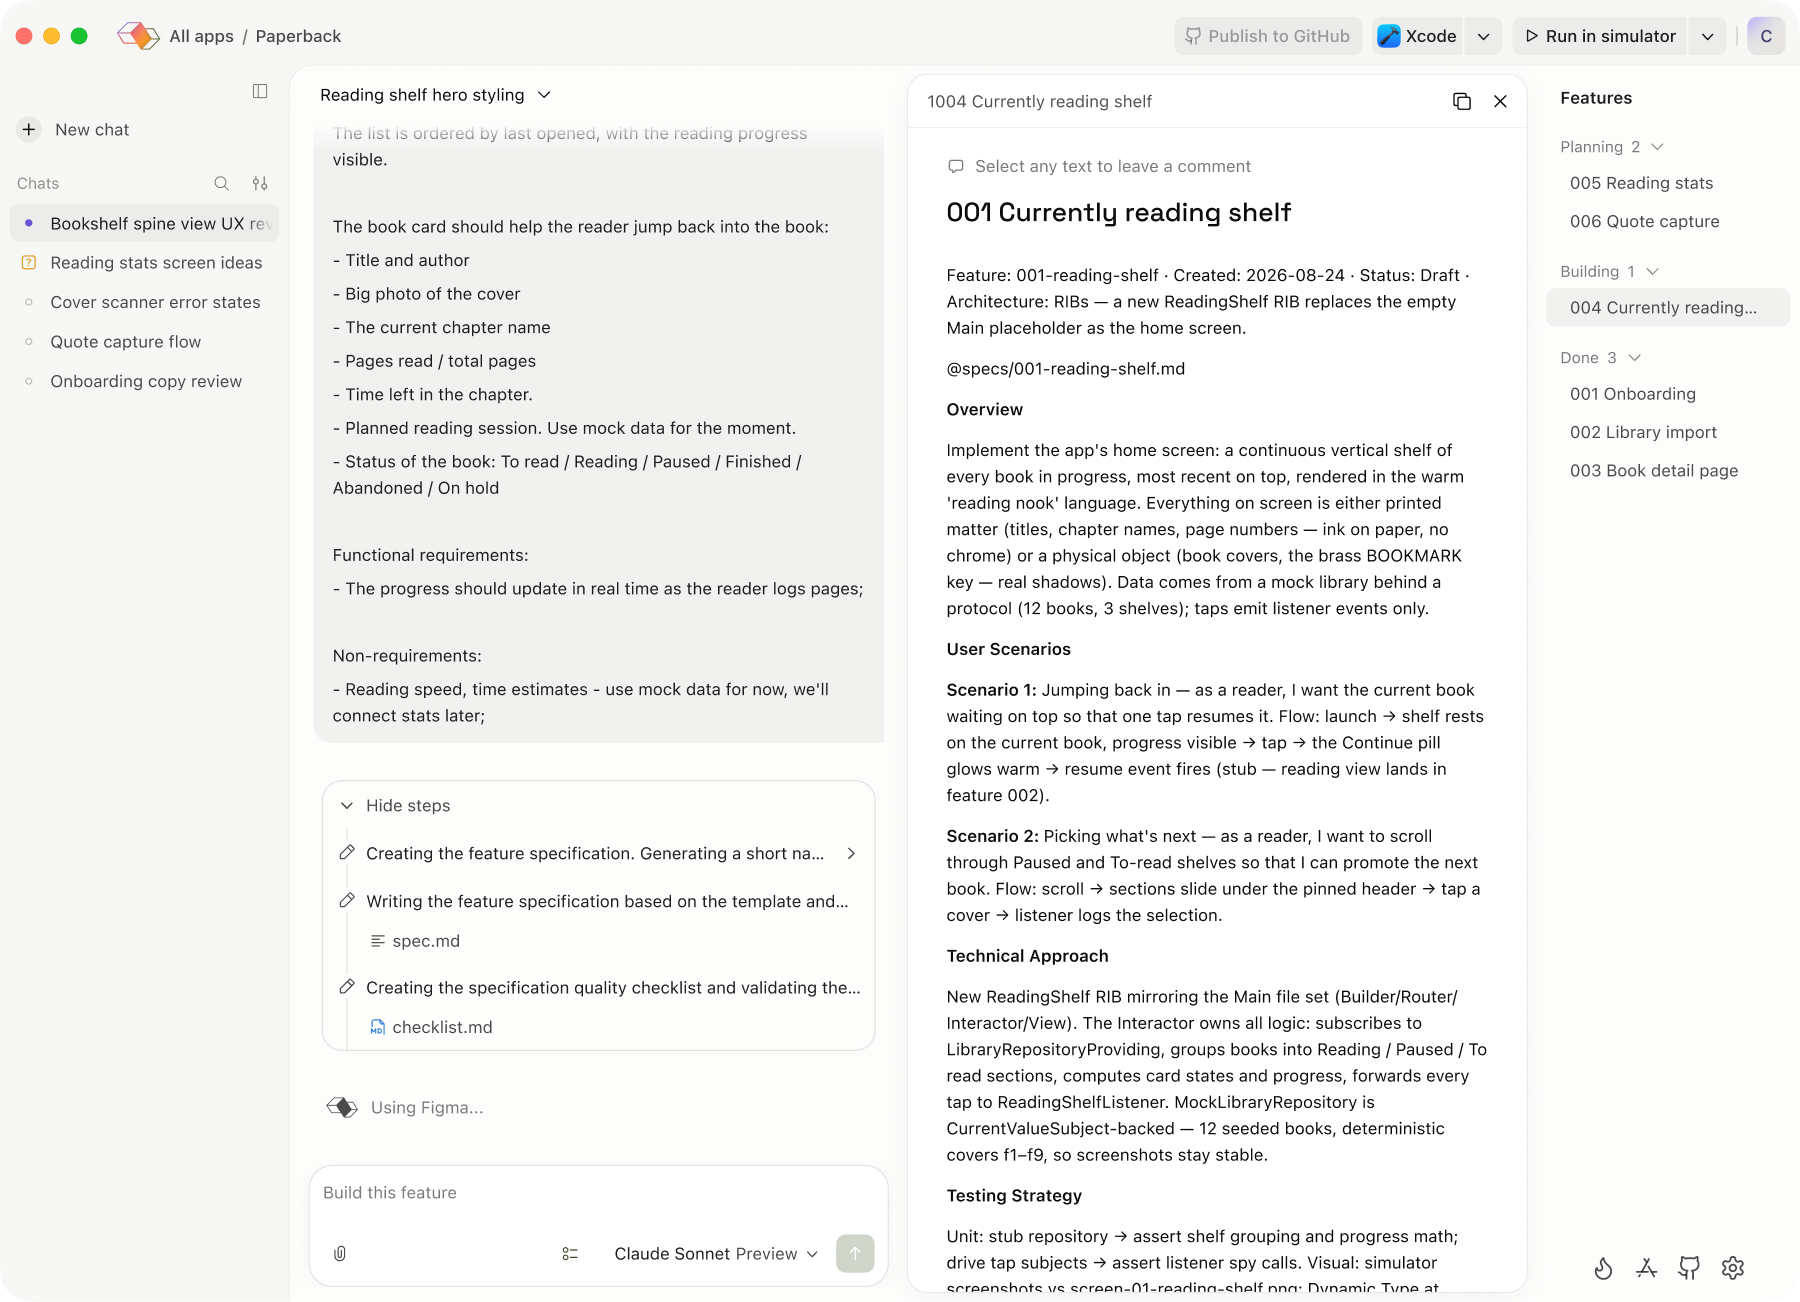
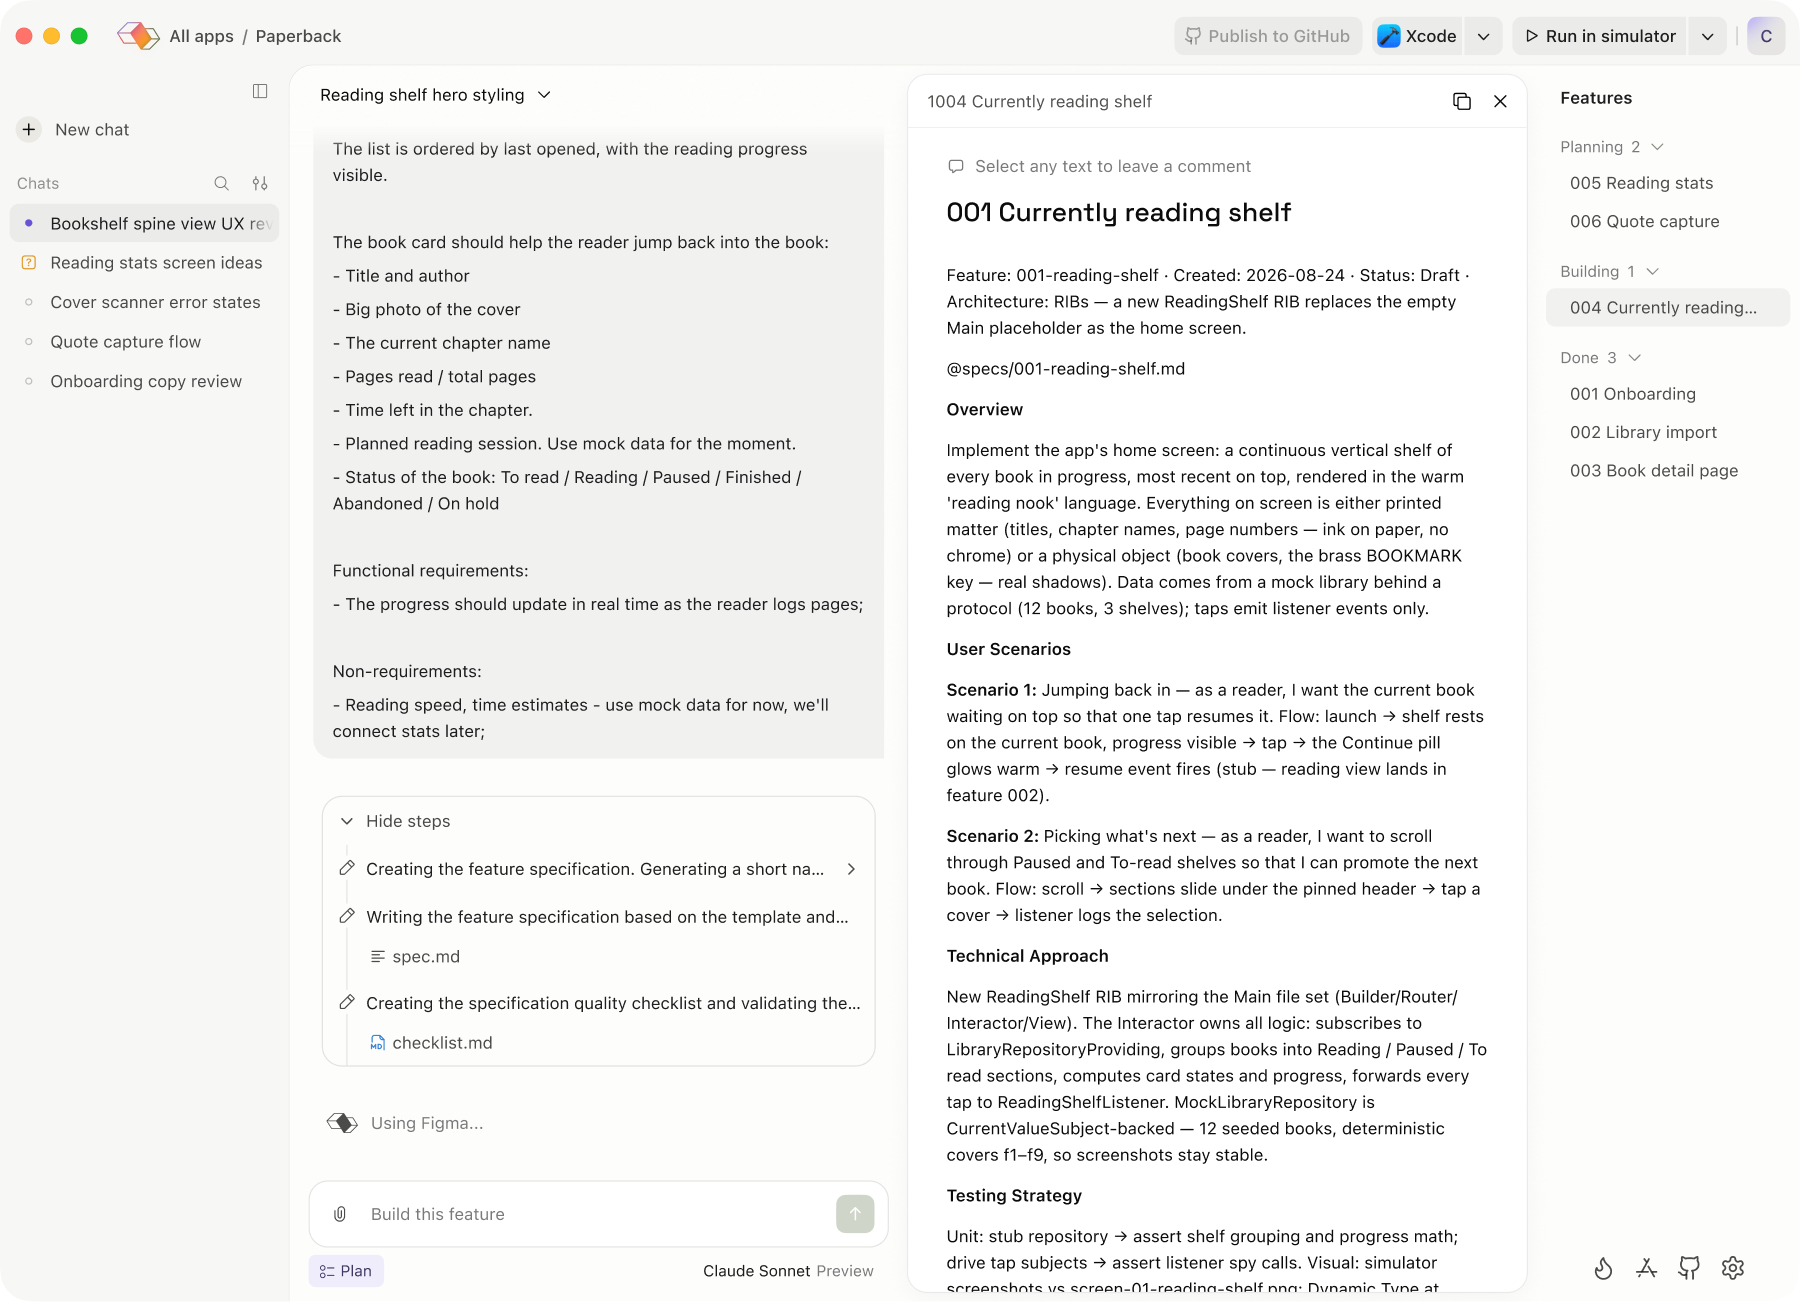
Update Where it landed and status images; cache-bust case study visuals

diff --git a/feature-driven-flow.html b/feature-driven-flow.html
@@ -519,7 +519,7 @@
         <div class="dg-lbl t t3"><p><span class="n">2</span><strong>The active conversation</strong>, directly beside its list.</p></div>
         <div class="dg-lbl t t2"><p><span class="n">5</span><strong>The features rail</strong> — the global project context.</p></div>
         <div class="shot">
-          <img src="assets/feature-driven-flow-03-293ad8b7.png?v=20261029" alt="The workspace: the chat list on the far left, the active conversation beside it, an open feature spec in the middle, and the features rail on the far right" />
+          <img src="assets/feature-driven-flow-03-293ad8b7.png?v=20261030" alt="The workspace: the chat list on the far left, the active conversation beside it, an open feature spec in the middle, and the features rail on the far right" />
           <span class="dg-lead l1"></span><span class="dg-lead l2"></span><span class="dg-lead l3"></span><span class="dg-lead l4"></span><span class="dg-lead l5"></span><span class="dg-lead l6"></span>
           <span class="dg-pin p1">1</span><span class="dg-pin p2">5</span><span class="dg-pin p3">3</span><span class="dg-pin p4">4</span><span class="dg-pin p5">6</span><span class="dg-pin p6">2</span>
         </div>
@@ -580,7 +580,7 @@
         </li>
         <li>
           <p><strong>Statuses carry the rest</strong> — each feature shows where it stands; each chat shows what the agent is doing: working, waiting for you, or finished.</p>
-          <div class="dec-img dec-alt"><img src="assets/feature-driven-flow-07-11784bb7.png" alt="The features rail: features grouped under Planning, Building and Done."><img src="assets/feature-driven-flow-08-6e4c395e.png?v=20261029" alt="The chat list: one chat waiting for you, one with the agent working, one finished."></div>
+          <div class="dec-img dec-alt"><img src="assets/feature-driven-flow-07-11784bb7.png" alt="The features rail: features grouped under Planning, Building and Done."><img src="assets/feature-driven-flow-08-6e4c395e.png?v=20261030" alt="The chat list: one chat waiting for you, one with the agent working, one finished."></div>
         </li>
       </ul>
     </div>
@@ -591,7 +591,7 @@
       <div class="s">90 seconds, prompt to commit</div>
     </div>
     <div class="body">
-      <video style="display:block;width:100%;height:auto;aspect-ratio:1600/1000;border-radius:12px;box-shadow:0 2px 6px rgba(17,17,17,.05),0 16px 48px rgba(17,17,17,.10);margin:0 0 8px;background:transparent" poster="assets/feature-driven-flow-09-89c5cd07.jpg?v=20261029" preload="auto" src="assets/feature-driven-flow-10-9b9032a4.mp4?v=20261029" autoplay muted loop playsinline></video>
+      <video style="display:block;width:100%;height:auto;aspect-ratio:1600/1000;border-radius:12px;box-shadow:0 2px 6px rgba(17,17,17,.05),0 16px 48px rgba(17,17,17,.10);margin:0 0 8px;background:transparent" poster="assets/feature-driven-flow-09-89c5cd07.jpg?v=20261030" preload="auto" src="assets/feature-driven-flow-10-9b9032a4.mp4?v=20261030" autoplay muted loop playsinline></video>
     </div>
   </div>
 </section>
